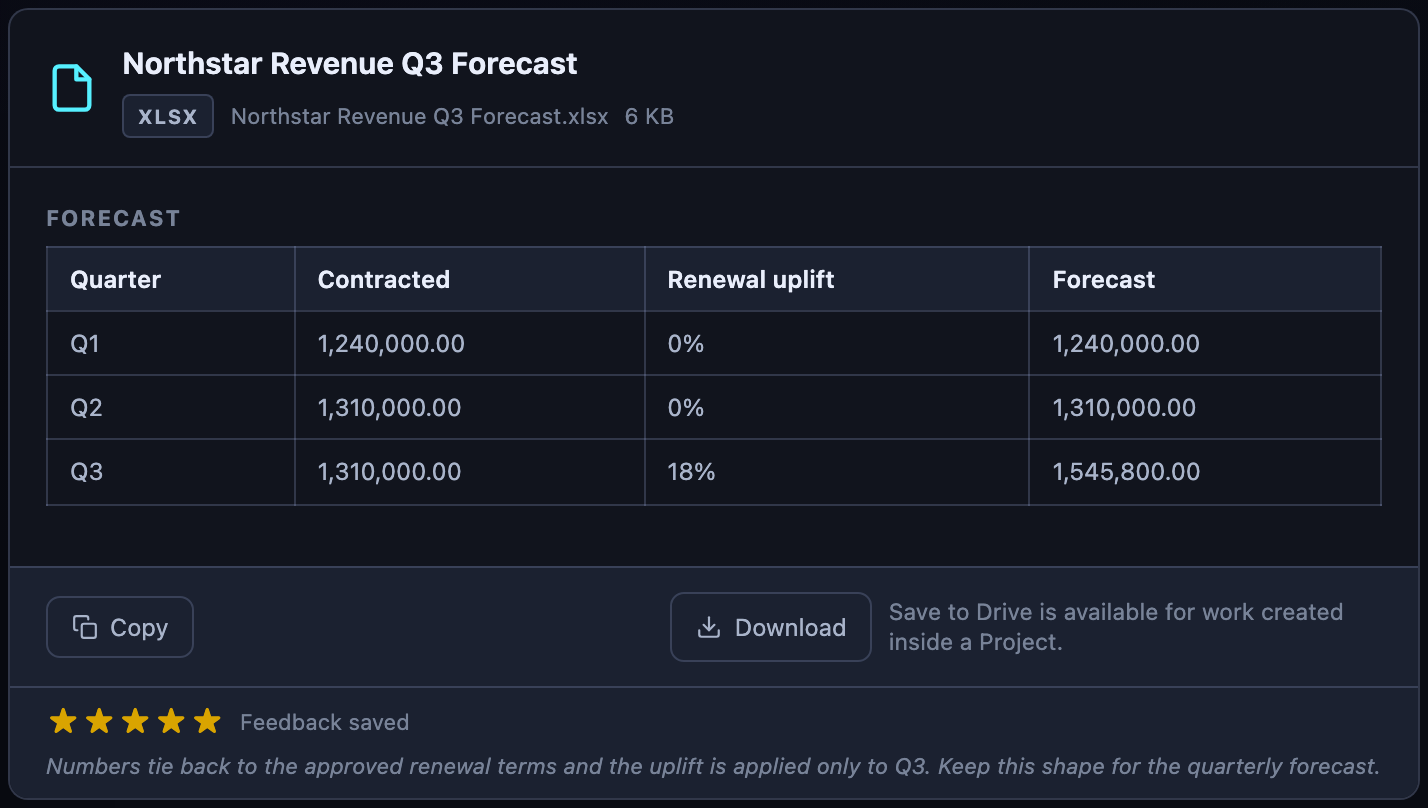
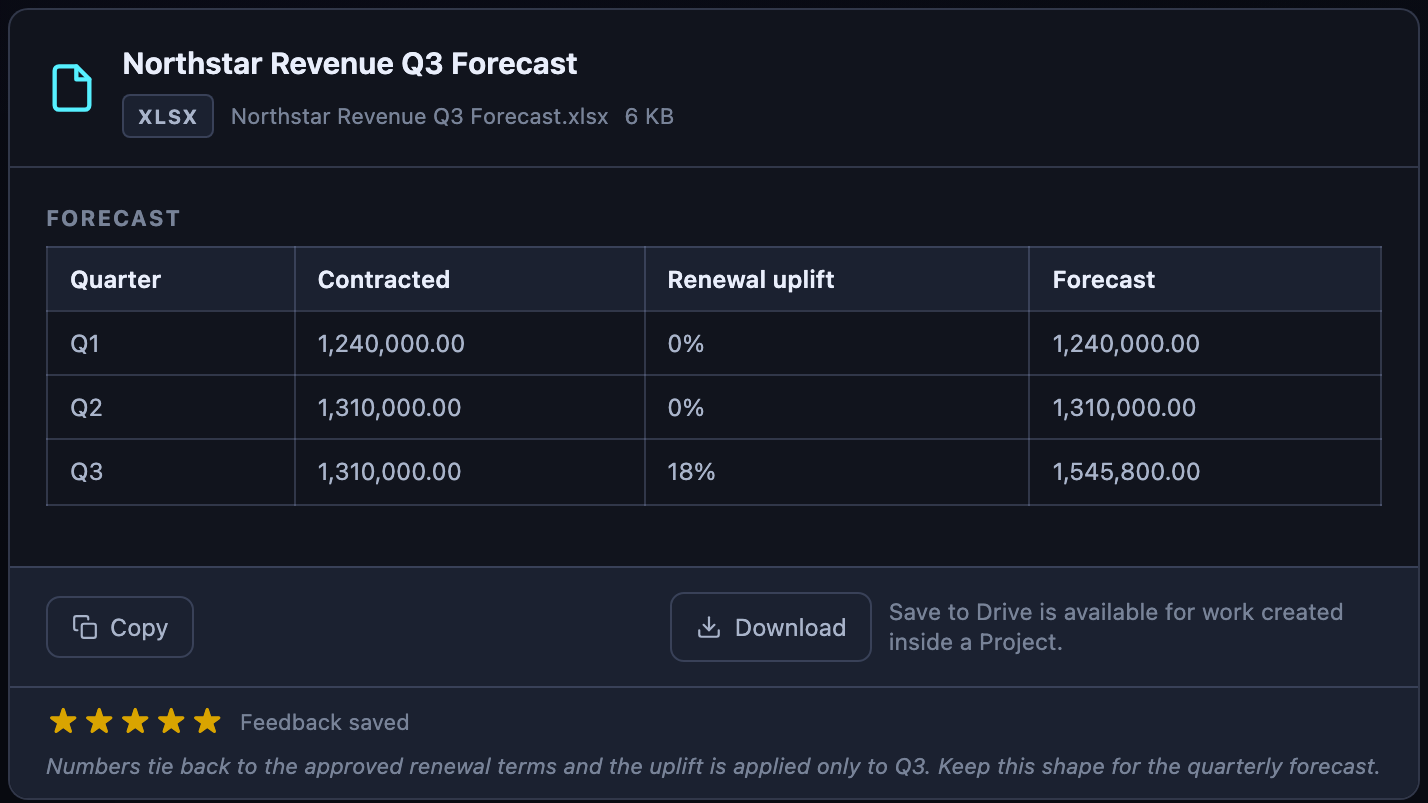
WEBSITE-RUNTIME-REPOSITION-001 R7.4 — three identical frames, whole views, aligned
Product Authority, on all four points, and all four are fixed.

"Observed must show THE LEFT SIDE AND THE RIGHT SIDE OF SIGNALS."
Frame 01 is now the Signals screen itself — the incoming list on the left with
its Watching only / Raised as a Signal states, and the selected Signal's detail
on the right: Observed event, Why it matters, Related. Not two cards lifted out
of it and stacked.

"why is the source package not on the same view?"
Because I had cropped it out and re-attached it as a floating card, which was
wrong — it lives in that view. Frame 02 is now the whole workbench: the
Operation Draft AND its Source Package side by side, as the product shows them.
The floating inset is gone.

"make all the images the same dimensions" / "the headers are even misaligned"
All three captures are now 16:9, and all three frames render at exactly
463x260 at the same y, with captions 463x123 on one baseline. Measured. The
28/44/28 weighting and the deliberate rise on 02 are dropped — they were what
put the headers on three different lines.

Three more occurrences of the pilot customer's name were found in the Signals
list and sanitized; the list could not be excluded this time because the brief
requires it.

TRADE-OFF, stated plainly: whole screens at equal thirds means each capture
renders at roughly a third of app scale, so the fine text reads as texture
rather than words. Showing the whole view, keeping all three identical, and
[…]

diff --git a/pt-br/index.html b/pt-br/index.html
@@ -198,7 +198,7 @@
         <figure class="pf-frame pf-frame--a">
           <figcaption class="pf-cap"><span class="pf-n">01</span><b>Observado</b><span>Uma mudança vira contexto institucional.</span></figcaption>
           <div class="pf-shot">
-            <img src="/assets/shots/proof-observed.png" alt="Detalhe de Sinal da Nieme: a mudança de um documento no Google Drive — fonte, onde, o que aconteceu, a hora do próprio provedor e a hora em que a Nieme viu — com a razão da Nieme, o status Registrado como Sinal no Runtime, e o projeto Northstar Revenue relacionado." loading="lazy" width="846" height="1411">
+            <img src="/assets/shots/proof-observed.png" alt="Detalhe de Sinal da Nieme: a mudança de um documento no Google Drive — fonte, onde, o que aconteceu, a hora do próprio provedor e a hora em que a Nieme viu — com a razão da Nieme, o status Registrado como Sinal no Runtime, e o projeto Northstar Revenue relacionado." loading="lazy" width="2560" height="1440">
           </div>
         </figure>
 
@@ -206,15 +206,14 @@
           <figcaption class="pf-cap"><span class="pf-n">02</span><b>Governado</b><span>O contexto vira trabalho com autoridade explícita.</span></figcaption>
           <div class="pf-shot">
             <!-- POC ONLY — NOT SHIPPABLE. Ver a nota na página em inglês. -->
-            <span class="pf-inset"><img src="/assets/shots/proof-governed-inset.png" alt="Pacote de fontes da Nieme: a Operação vinculada ao projeto Northstar Revenue com uma fonte escolhida explicitamente." loading="lazy" width="656" height="388"></span>
-            <img src="/assets/shots/proof-governed.png" alt="Rascunho de Operação da Nieme: trabalho proposto vinculado a Northstar Revenue, com objetivo, pacote de fontes e o estado Pronto para aprovar aguardando revisão." loading="lazy" width="1379" height="842">
+            <img src="/assets/shots/proof-governed.png" alt="Rascunho de Operação da Nieme: trabalho proposto vinculado a Northstar Revenue, com objetivo, pacote de fontes e o estado Pronto para aprovar aguardando revisão." loading="lazy" width="1227" height="690">
           </div>
         </figure>
 
         <figure class="pf-frame pf-frame--c">
           <figcaption class="pf-cap"><span class="pf-n">03</span><b>Executado</b><span>O trabalho roda com Evidência e uma Decisão anexadas.</span></figcaption>
           <div class="pf-shot">
-            <img src="/assets/shots/proof-executed.png" alt="Card de artefato da Nieme: a planilha Northstar Revenue Q3 Forecast com a prévia da aba, avaliação de cinco estrelas e a nota de quem revisou." loading="lazy" width="1428" height="808">
+            <img src="/assets/shots/proof-executed.png" alt="Card de artefato da Nieme: a planilha Northstar Revenue Q3 Forecast com a prévia da aba, avaliação de cinco estrelas e a nota de quem revisou." loading="lazy" width="1428" height="803">
           </div>
         </figure>
       </div>

diff --git a/index.html b/index.html
@@ -198,7 +198,7 @@
         <figure class="pf-frame pf-frame--a">
           <figcaption class="pf-cap"><span class="pf-n">01</span><b>Observed</b><span>A change becomes institutional context.</span></figcaption>
           <div class="pf-shot">
-            <img src="/assets/shots/proof-observed.png" alt="Nieme Signals detail: a Google Drive document change — source, where, what happened, the provider's own event time and the time Nieme saw it — with Nieme's reason, the status Raised as a Signal in the Runtime, and the related Northstar Revenue project." loading="lazy" width="846" height="1411">
+            <img src="/assets/shots/proof-observed.png" alt="Nieme Signals detail: a Google Drive document change — source, where, what happened, the provider's own event time and the time Nieme saw it — with Nieme's reason, the status Raised as a Signal in the Runtime, and the related Northstar Revenue project." loading="lazy" width="2560" height="1440">
           </div>
         </figure>
 
@@ -208,15 +208,14 @@
             <!-- POC ONLY — NOT SHIPPABLE. Four text blocks were rewritten because the
                  real draft was Nieme's own work and carried the retired category lines
                  verbatim. Must be recaptured with the story authored in the product. -->
-            <span class="pf-inset"><img src="/assets/shots/proof-governed-inset.png" alt="Nieme source package: the Operation bound to the Northstar Revenue project with one explicitly chosen source." loading="lazy" width="656" height="388"></span>
-            <img src="/assets/shots/proof-governed.png" alt="Nieme Operation Draft: proposed work bound to Northstar Revenue, with its objective, its source package and a Ready to approve state awaiting review." loading="lazy" width="1379" height="842">
+            <img src="/assets/shots/proof-governed.png" alt="Nieme Operation Draft: proposed work bound to Northstar Revenue, with its objective, its source package and a Ready to approve state awaiting review." loading="lazy" width="1227" height="690">
           </div>
         </figure>
 
         <figure class="pf-frame pf-frame--c">
           <figcaption class="pf-cap"><span class="pf-n">03</span><b>Executed</b><span>Work runs with Evidence and a Decision attached.</span></figcaption>
           <div class="pf-shot">
-            <img src="/assets/shots/proof-executed.png" alt="Nieme artifact card: the Northstar Revenue Q3 Forecast spreadsheet with its sheet preview, a five-star rating and the reviewer's note." loading="lazy" width="1428" height="808">
+            <img src="/assets/shots/proof-executed.png" alt="Nieme artifact card: the Northstar Revenue Q3 Forecast spreadsheet with its sheet preview, a five-star rating and the reviewer's note." loading="lazy" width="1428" height="803">
           </div>
         </figure>
       </div>

diff --git a/styles.css b/styles.css
@@ -1311,7 +1311,7 @@ h1,h2,h3{text-wrap:balance}
        runs behind all three; the pulse pauses at the governance gate, because
        observation does not automatically become execution. ---- */
 .pf{position:relative;max-width:1440px;margin:56px auto 0;
-  display:grid;grid-template-columns:28fr 44fr 28fr;grid-template-rows:auto auto;
+  display:grid;grid-template-columns:repeat(3,minmax(0,1fr));grid-template-rows:auto auto;
   column-gap:26px;row-gap:30px;align-items:start}
 .pf-frame{grid-row:1}
 .pf-trace{grid-column:1/-1;grid-row:2;position:relative;height:1px;z-index:3}
@@ -1346,25 +1346,19 @@ h1,h2,h3{text-wrap:balance}
 .pf-cap{display:flex;align-items:baseline;flex-wrap:wrap;gap:0 10px;margin-bottom:14px}
 .pf-n{font-size:11.5px;letter-spacing:.18em;color:var(--purple);flex:none}
 .pf-cap b{font-size:clamp(19px,1.8vw,25px);letter-spacing:-.03em;font-weight:440;color:#eef0f7}
-.pf-cap span{flex:1 1 100%;margin-top:5px;font-size:14.5px;line-height:1.45;color:var(--muted)}
-.pf-shot{position:relative;border:1px solid var(--rule2,#ffffff1f);border-radius:16px;overflow:hidden;
+.pf-cap span{flex:1 1 100%;margin-top:5px;font-size:14.5px;line-height:1.45;color:var(--muted);min-height:42px}
+.pf-shot{position:relative;aspect-ratio:16/9;border:1px solid var(--rule2,#ffffff1f);border-radius:16px;overflow:hidden;
   background:#0c0e16;box-shadow:0 30px 90px #00000073;transition:transform .3s,box-shadow .3s}
-.pf-shot img{display:block;width:100%;height:auto}
+.pf-shot img{display:block;width:100%;height:100%;object-fit:cover;object-position:top left}
 .pf-shot:hover{transform:translateY(-4px);box-shadow:0 40px 110px #0000008c,0 0 40px #7b4dff1f}
-.pf-frame--b{margin:-40px -14px 0;z-index:2}
-.pf-frame--b .pf-shot{overflow:visible}
-.pf-frame--b .pf-shot > img{border-radius:15px}
-.pf-frame--b .pf-cap b{font-size:clamp(22px,2.1vw,30px)}
+.pf-frame--b{z-index:2}
+
+
 .pf-frame--b .pf-shot{border-color:#7b4dff73;
   box-shadow:0 40px 120px #000000a6,0 0 0 1px #7b4dff3d,0 0 70px #7b4dff30,0 0 110px #2fd4b81a}
 .pf-frame--b .pf-shot:hover{box-shadow:0 46px 130px #000000b3,0 0 0 1px #7b4dff59,0 0 88px #7b4dff3d}
-/* a complete inset — its own whole panel, never overlapping content */
-.pf-inset{position:absolute;right:-6px;bottom:-48px;width:39%;border-radius:11px;overflow:hidden;
-  border:1px solid #7b4dff59;box-shadow:0 24px 58px #000000bf;background:#0c0e16;z-index:3;line-height:0}
-.pf-inset img{display:block;width:100%;height:auto}
 .proof-caption{display:block;max-width:820px;margin:44px auto 0;text-align:center;font-size:15px;color:#8f93a8}
 @media (max-width:1080px){
-  .pf-inset{position:static;width:100%;margin-top:12px}
   .pf{grid-template-columns:minmax(0,1fr);row-gap:34px;padding-left:34px;margin-top:34px}
   .pf-frame{grid-row:auto}
   .pf-frame--b{margin:0}
